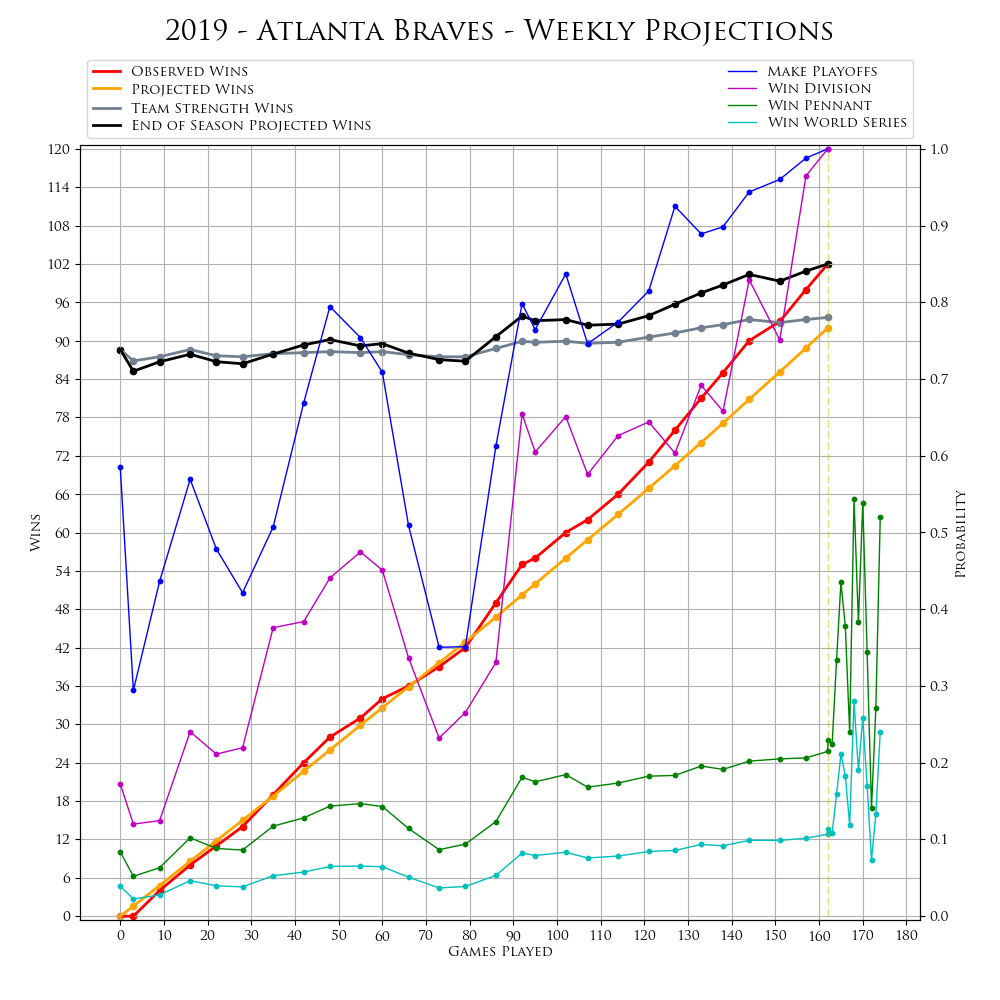
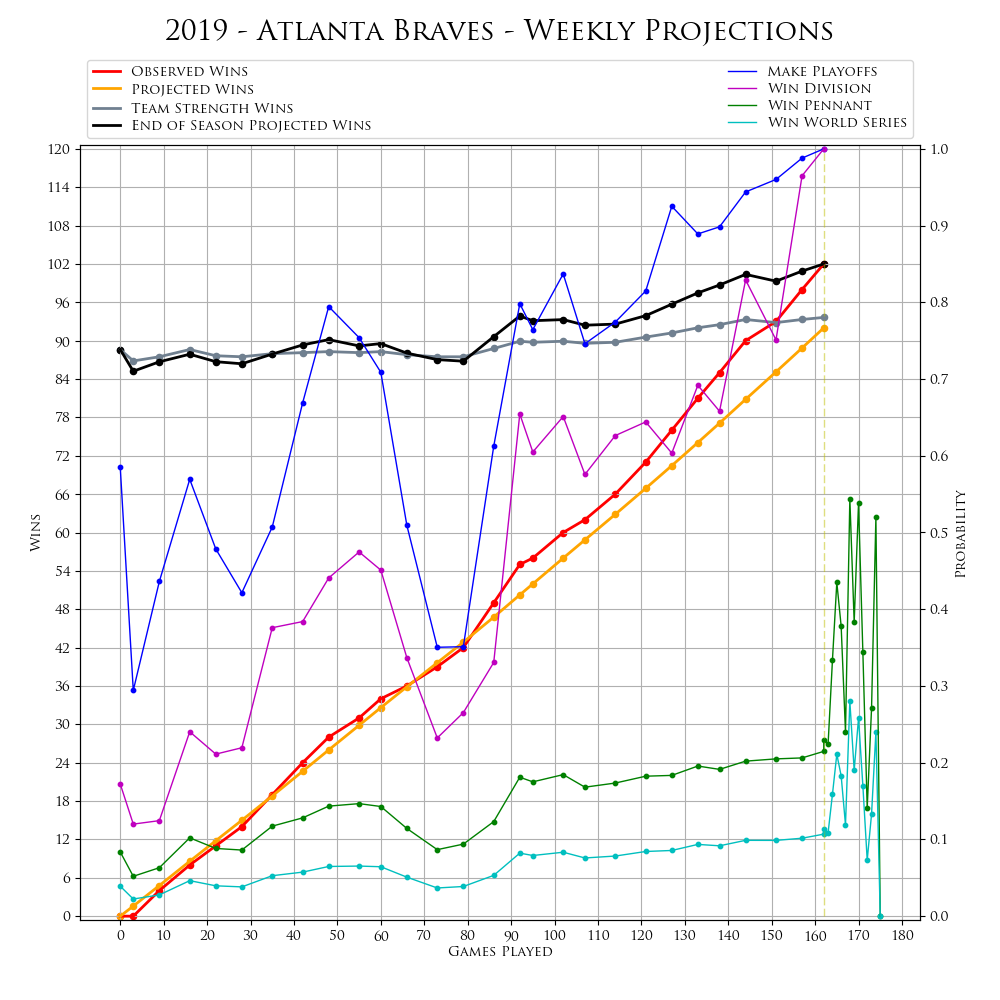
playoff NSBL update (Oct 15, 2019)

diff --git a/Tables/in_playoff_bracket.html b/Tables/in_playoff_bracket.html
@@ -255,7 +255,7 @@ c+"</h1><div>"+("function"===typeof e.message?e.message(b,h,e):e.message)+"</div
 </script>
 <script>
 		$(document).ready(function() {
-			$("#table").DataTable({"scroller":true,"dom":"Bfrtip","sScrollX":"100%","scrollY":"70vh","buttons":["copy","csv","json","print"],"paging":true,"bPaginate":false,"bLengthChange":false,"deferRender":true,"data":[["ALCS","Baltimore Orioles","Tampa Bay Rays","2","4","0.0%","","","","",""],["ALCS","Tampa Bay Rays","Baltimore Orioles","4","2","100.0%","","","","100.0%",""],["ALDS1","Baltimore Orioles","Texas Rangers","3","2","100.0%","","","100.0%","",""],["ALDS1","Texas Rangers","Baltimore Orioles","2","3","0.0%","","","","",""],["ALDS2","Chicago White Sox","Tampa Bay Rays","1","3","0.0%","","","","",""],["ALDS2","Tampa Bay Rays","Chicago White Sox","3","1","100.0%","","100.0%","","",""],["ALWC","Oakland Athletics","Tampa Bay Rays","0","1","0.0%","","","","",""],["ALWC","Tampa Bay Rays","Oakland Athletics","1","0","100.0%","","","","",""],["NLCS","Atlanta Braves","Pittsburgh Pirates","3","3","52.0%","","","","","52.0%"],["NLCS","Pittsburgh Pirates","Atlanta Braves","3","3","48.0%","","","","","48.0%"],["NLDS1","Pittsburgh Pirates","San Diego Padres","3","2","100.0%","","","100.0%","",""],["NLDS1","San Diego Padres","Pittsburgh Pirates","2","3","0.0%","","","","",""],["NLDS2","Atlanta Braves","Colorado Rockies","3","2","100.0%","","","100.0%","",""],["NLDS2","Colorado Rockies","Atlanta Braves","2","3","0.0%","","","","",""],["NLWC","Colorado Rockies","Miami Marlins","1","0","100.0%","","","","",""],["NLWC","Miami Marlins","Colorado Rockies","0","1","0.0%","","","","",""]],"sScrollXInner":"100%","columns":[{"title":"Series ID"},{"title":"Team Name"},{"title":"Opponent Name"},{"title":"Series Wins"},{"title":"Series Losses"},{"title":"Advance Probability"},{"title":"Win in 3"},{"title":"Win in 4"},{"title":"Win in 5"},{"title":"Win in 6"},{"title":"Win in 7"}],"iDisplayLength":-1});
+			$("#table").DataTable({"scroller":true,"dom":"Bfrtip","sScrollX":"100%","scrollY":"70vh","buttons":["copy","csv","json","print"],"paging":true,"bPaginate":false,"bLengthChange":false,"deferRender":true,"data":[["ALCS","Baltimore Orioles","Tampa Bay Rays","2","4","0.0%","","","","",""],["ALCS","Tampa Bay Rays","Baltimore Orioles","4","2","100.0%","","","","100.0%",""],["ALDS1","Baltimore Orioles","Texas Rangers","3","2","100.0%","","","100.0%","",""],["ALDS1","Texas Rangers","Baltimore Orioles","2","3","0.0%","","","","",""],["ALDS2","Chicago White Sox","Tampa Bay Rays","1","3","0.0%","","","","",""],["ALDS2","Tampa Bay Rays","Chicago White Sox","3","1","100.0%","","100.0%","","",""],["ALWC","Oakland Athletics","Tampa Bay Rays","0","1","0.0%","","","","",""],["ALWC","Tampa Bay Rays","Oakland Athletics","1","0","100.0%","","","","",""],["NLCS","Atlanta Braves","Pittsburgh Pirates","3","4","0.0%","","","","",""],["NLCS","Pittsburgh Pirates","Atlanta Braves","4","3","100.0%","","","","","100.0%"],["NLDS1","Pittsburgh Pirates","San Diego Padres","3","2","100.0%","","","100.0%","",""],["NLDS1","San Diego Padres","Pittsburgh Pirates","2","3","0.0%","","","","",""],["NLDS2","Atlanta Braves","Colorado Rockies","3","2","100.0%","","","100.0%","",""],["NLDS2","Colorado Rockies","Atlanta Braves","2","3","0.0%","","","","",""],["NLWC","Colorado Rockies","Miami Marlins","1","0","100.0%","","","","",""],["NLWC","Miami Marlins","Colorado Rockies","0","1","0.0%","","","","",""],["WS","Pittsburgh Pirates","Tampa Bay Rays","0","0","41.8%","","4.6%","9.8%","13.2%","14.2%"],["WS","Tampa Bay Rays","Pittsburgh Pirates","0","0","58.2%","","8.4%","15.5%","17.9%","16.5%"]],"sScrollXInner":"100%","columns":[{"title":"Series ID"},{"title":"Team Name"},{"title":"Opponent Name"},{"title":"Series Wins"},{"title":"Series Losses"},{"title":"Advance Probability"},{"title":"Win in 3"},{"title":"Win in 4"},{"title":"Win in 5"},{"title":"Win in 6"},{"title":"Win in 7"}],"iDisplayLength":-1});
 		});
 	</script>
 <style>

diff --git a/Tables/in_playoff_probabilities.html b/Tables/in_playoff_probabilities.html
@@ -227,7 +227,7 @@ c+"</h1><div>"+("function"===typeof e.message?e.message(b,h,e):e.message)+"</div
 </script>
 <script>
 		$(document).ready(function() {
-			$("#table").DataTable({"dom":"Bfrtip","sScrollX":"100%","scrollY":"70vh","buttons":["copy","csv","json","print"],"paging":true,"lengthMenu":[[-1,10,25,50],["All",10,25,50]],"data":[["Atlanta Braves","100.0%","0.0%","","100.0%","100.0%","52.0%","24.0%"],["Baltimore Orioles","100.0%","0.0%","","100.0%","100.0%","0.0%","0.0%"],["Chicago White Sox","100.0%","0.0%","","100.0%","0.0%","0.0%","0.0%"],["Colorado Rockies","0.0%","100.0%","100.0%","100.0%","0.0%","0.0%","0.0%"],["Miami Marlins","0.0%","100.0%","0.0%","0.0%","0.0%","0.0%","0.0%"],["Oakland Athletics","0.0%","100.0%","0.0%","0.0%","0.0%","0.0%","0.0%"],["Pittsburgh Pirates","100.0%","0.0%","","100.0%","100.0%","48.0%","20.1%"],["San Diego Padres","100.0%","0.0%","","100.0%","0.0%","0.0%","0.0%"],["Tampa Bay Rays","0.0%","100.0%","100.0%","100.0%","100.0%","100.0%","55.9%"],["Texas Rangers","100.0%","0.0%","","100.0%","0.0%","0.0%","0.0%"]],"sScrollXInner":"100%","columns":[{"title":"Team Name"},{"title":"Win Div"},{"title":"Make Wild Card"},{"title":"Win Wild Card"},{"title":"Make LDS"},{"title":"Make LCS"},{"title":"Make WS"},{"title":"Win WS"}],"iDisplayLength":-1});
+			$("#table").DataTable({"dom":"Bfrtip","sScrollX":"100%","scrollY":"70vh","buttons":["copy","csv","json","print"],"paging":true,"lengthMenu":[[-1,10,25,50],["All",10,25,50]],"data":[["Atlanta Braves","100.0%","0.0%","","100.0%","100.0%","0.0%","0.0%"],["Baltimore Orioles","100.0%","0.0%","","100.0%","100.0%","0.0%","0.0%"],["Chicago White Sox","100.0%","0.0%","","100.0%","0.0%","0.0%","0.0%"],["Colorado Rockies","0.0%","100.0%","100.0%","100.0%","0.0%","0.0%","0.0%"],["Miami Marlins","0.0%","100.0%","0.0%","0.0%","0.0%","0.0%","0.0%"],["Oakland Athletics","0.0%","100.0%","0.0%","0.0%","0.0%","0.0%","0.0%"],["Pittsburgh Pirates","100.0%","0.0%","","100.0%","100.0%","100.0%","41.8%"],["San Diego Padres","100.0%","0.0%","","100.0%","0.0%","0.0%","0.0%"],["Tampa Bay Rays","0.0%","100.0%","100.0%","100.0%","100.0%","100.0%","58.2%"],["Texas Rangers","100.0%","0.0%","","100.0%","0.0%","0.0%","0.0%"]],"sScrollXInner":"100%","columns":[{"title":"Team Name"},{"title":"Win Div"},{"title":"Make Wild Card"},{"title":"Win Wild Card"},{"title":"Make LDS"},{"title":"Make LCS"},{"title":"Make WS"},{"title":"Win WS"}],"iDisplayLength":-1});
 		});
 	</script>
 <style>
